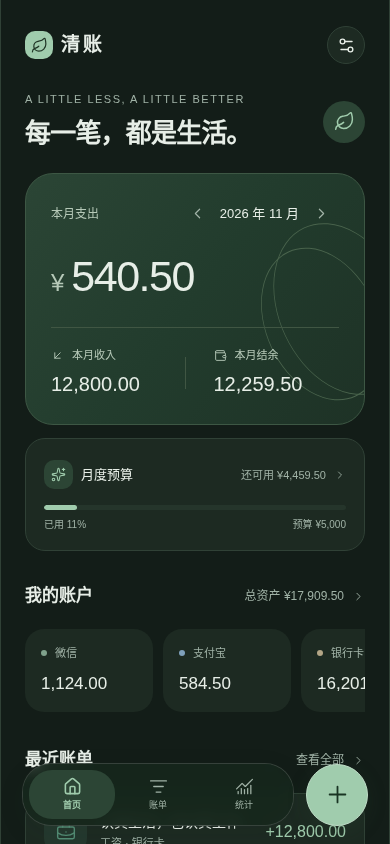
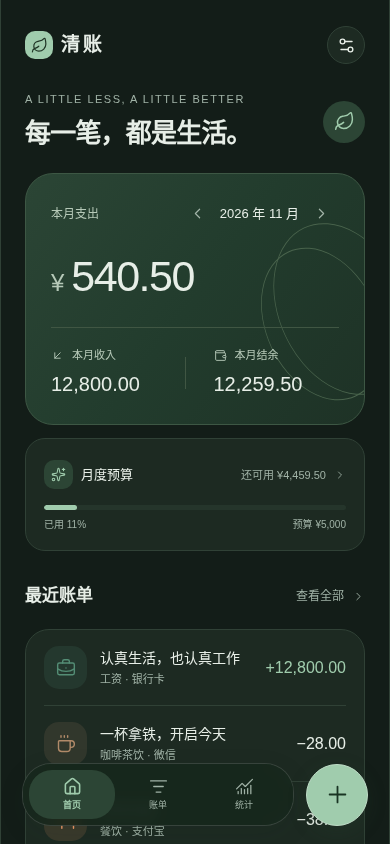
feat: make home account cards optional

diff --git a/src/screens/HomeScreen.tsx b/src/screens/HomeScreen.tsx
@@ -287,61 +287,68 @@ export function HomeScreen({
         )}
       </Card>
 
-      <SectionTitle
-        title="我的账户"
-        action={`总资产 ¥${money(totalAssets)}`}
-        onPress={onSettings}
-      />
-      <ScrollView
-        testID="account-carousel"
-        horizontal
-        nestedScrollEnabled
-        onTouchStart={lock}
-        onTouchEnd={unlock}
-        onTouchCancel={unlock}
-        showsHorizontalScrollIndicator={false}
-        contentContainerStyle={{ gap: 10, paddingBottom: 3 }}
-      >
-        {ledger.accounts.map((account, i) => (
-          <Button
-            key={account.id}
-            label={`管理${account.name}账户`}
-            variant="plain"
+      {ledger.showAccountCards && (
+        <>
+          <SectionTitle
+            title="我的账户"
+            action={`总资产 ¥${money(totalAssets)}`}
             onPress={onSettings}
-            style={{
-              backgroundColor: t.surface,
-              borderRadius: 19,
-              alignItems: 'flex-start',
-              padding: 16,
-              minWidth: 128,
-              gap: 9,
-            }}
+          />
+          <ScrollView
+            testID="account-carousel"
+            horizontal
+            nestedScrollEnabled
+            onTouchStart={lock}
+            onTouchEnd={unlock}
+            onTouchCancel={unlock}
+            showsHorizontalScrollIndicator={false}
+            contentContainerStyle={{ gap: 10, paddingBottom: 3 }}
           >
-            <View style={styles.row}>
-              <View
+            {ledger.accounts.map((account, i) => (
+              <Button
+                key={account.id}
+                label={`管理${account.name}账户`}
+                variant="plain"
+                onPress={onSettings}
                 style={{
-                  width: 6,
-                  height: 6,
-                  borderRadius: 3,
-                  backgroundColor: ['#80A28C', '#7FA0BB', '#B3A586', '#A697BB'][
-                    i % 4
-                  ],
+                  backgroundColor: t.surface,
+                  borderRadius: 19,
+                  alignItems: 'flex-start',
+                  padding: 16,
+                  minWidth: 128,
+                  gap: 9,
                 }}
-              />
-              <Txt size={11} color={t.muted}>
-                {account.name}
-              </Txt>
-            </View>
-            <Txt
-              size={17}
-              weight="500"
-              style={{ fontVariant: ['tabular-nums'] }}
-            >
-              {money(accountBalance(ledger, account.id))}
-            </Txt>
-          </Button>
-        ))}
-      </ScrollView>
+              >
+                <View style={styles.row}>
+                  <View
+                    style={{
+                      width: 6,
+                      height: 6,
+                      borderRadius: 3,
+                      backgroundColor: [
+                        '#80A28C',
+                        '#7FA0BB',
+                        '#B3A586',
+                        '#A697BB',
+                      ][i % 4],
+                    }}
+                  />
+                  <Txt size={11} color={t.muted}>
+                    {account.name}
+                  </Txt>
+                </View>
+                <Txt
+                  size={17}
+                  weight="500"
+                  style={{ fontVariant: ['tabular-nums'] }}
+                >
+                  {money(accountBalance(ledger, account.id))}
+                </Txt>
+              </Button>
+            ))}
+          </ScrollView>
+        </>
+      )}
 
       <SectionTitle title="最近账单" action="查看全部" onPress={onAll} />
       <Card style={{ paddingVertical: 0, paddingHorizontal: 18 }}>

diff --git a/e2e/account-display.spec.ts b/e2e/account-display.spec.ts
@@ -1,0 +1,82 @@
+import { test, expect } from '@playwright/test';
+
+test('account cards are optional, survive reload, and keep the ledger intact', async ({
+  page,
+}) => {
+  await page.goto('/');
+  await expect(page.getByText('生活的记录，从这里开始')).toBeVisible();
+  await expect(page.getByTestId('account-carousel')).toHaveCount(0);
+  await page.getByRole('button', { name: '打开设置' }).click();
+  const toggle = page.getByRole('switch', { name: '首页显示账户卡片' });
+  await expect(toggle).not.toBeChecked();
+  await toggle.check();
+  await expect(toggle).toBeChecked();
+  await expect(toggle).toBeEnabled();
+  // Loading sample records must preserve the user's display choice.
+  await page.getByRole('button', { name: '载入示例账本，看看效果' }).click();
+  await page.getByRole('button', { name: '确认载入示例' }).click();
+  await expect(toggle).toBeEnabled();
+  await page.getByRole('button', { name: '关闭', exact: true }).click();
+  await page.getByTestId('account-carousel').scrollIntoViewIfNeeded();
+  await expect(
+    page.getByRole('button', { name: '管理微信账户', exact: true }),
+  ).toBeVisible();
+  const ledger = await page.evaluate(() =>
+    JSON.parse(localStorage.getItem('qingzhang.ledger.v1')!),
+  );
+  expect(ledger.entries).toHaveLength(9);
+  expect(ledger.accounts).toHaveLength(4);
+  await page.reload();
+  await expect(page.getByTestId('account-carousel')).toHaveCount(1);
+  await page.getByRole('button', { name: '打开设置' }).click();
+  await expect(toggle).toBeChecked();
+  await toggle.uncheck();
+  await expect(toggle).not.toBeChecked();
+  await expect(toggle).toBeEnabled();
+  await page.getByRole('button', { name: '关闭', exact: true }).click();
+  await expect(page.getByTestId('account-carousel')).toHaveCount(0);
+  await expect(
+    page.getByTestId('page-home').getByText('我的账户', { exact: true }),
+  ).toHaveCount(0);
+  await page.reload();
+  await expect(page.getByTestId('month-expense')).toHaveText('540.50');
+  await expect(page.getByTestId('account-carousel')).toHaveCount(0);
+  const saved = await page.evaluate(() =>
+    JSON.parse(localStorage.getItem('qingzhang.ledger.v1')!),
+  );
+  expect(saved).toEqual({ ...ledger, showAccountCards: false });
+  // Continue recording while cards are hidden.
+  await page.getByRole('button', { name: '记一笔', exact: true }).click();
+  await page.getByRole('textbox', { name: '金额', exact: true }).fill('10');
+  await page.getByRole('button', { name: '记好了', exact: true }).click();
+  await expect(page.getByTestId('month-expense')).toHaveText('550.50');
+});
+
+test('a failed display-setting save leaves the switch and ledger unchanged', async ({
+  page,
+}) => {
+  await page.goto('/');
+  await page.getByRole('button', { name: '打开设置' }).click();
+  const toggle = page.getByRole('switch', { name: '首页显示账户卡片' });
+  await toggle.check();
+  await expect(toggle).toBeEnabled();
+  const saved = await page.evaluate(() =>
+    localStorage.getItem('qingzhang.ledger.v1'),
+  );
+  await page.evaluate(() => {
+    Storage.prototype.setItem = () => {
+      throw new Error('存储空间不足');
+    };
+  });
+  // Native switches are controlled: the persisted value must remain on.
+  await toggle.click();
+  await expect(page.getByTestId('settings-error')).toContainText(
+    '存储空间不足',
+  );
+  await expect(toggle).toBeChecked();
+  expect(
+    await page.evaluate(() => localStorage.getItem('qingzhang.ledger.v1')),
+  ).toBe(saved);
+  await page.getByRole('button', { name: '关闭', exact: true }).click();
+  await expect(page.getByTestId('account-carousel')).toHaveCount(1);
+});

diff --git a/src/components/SettingsSheet.tsx b/src/components/SettingsSheet.tsx
@@ -1,5 +1,5 @@
 import React, { useState } from 'react';
-import { TextInput, View } from 'react-native';
+import { Switch, TextInput, View } from 'react-native';
 import { useLedger } from '../state/LedgerProvider';
 import {
   type Account,
@@ -104,7 +104,12 @@ export function SettingsSheet({
         : confirmation === 'demo'
           ? demoLedger()
           : imported!;
-    await update(() => next);
+    await update((current) => ({
+      ...next,
+      ...(confirmation !== 'import'
+        ? { showAccountCards: current.showAccountCards }
+        : {}),
+    }));
     setBudget(next.monthlyBudget ? amountInput(next.monthlyBudget) : '');
     setConfirmation(null);
     setImported(null);
@@ -147,6 +152,41 @@ export function SettingsSheet({
           </Txt>
         </View>
       )}
+      <SectionTitle title="首页显示" />
+      <View
+        style={[
+          styles.row,
+          {
+            backgroundColor: t.surfaceAlt,
+            borderRadius: 18,
+            padding: 15,
+            gap: 16,
+          },
+        ]}
+      >
+        <View style={{ flex: 1, gap: 4 }}>
+          <Txt size={13} weight="500">
+            首页显示账户卡片
+          </Txt>
+          <Txt size={10} color={t.muted}>
+            关闭后隐藏账户与总资产，账单记录不受影响
+          </Txt>
+        </View>
+        <Switch
+          accessibilityLabel="首页显示账户卡片"
+          accessibilityHint="控制首页账户卡片与总资产的显示"
+          value={ledger.showAccountCards}
+          disabled={disabled}
+          trackColor={{ false: t.border, true: t.accent }}
+          thumbColor="#FFFFFF"
+          ios_backgroundColor={t.border}
+          onValueChange={(value) =>
+            void perform(() =>
+              update((current) => ({ ...current, showAccountCards: value })),
+            )
+          }
+        />
+      </View>
       <SectionTitle title="月度预算" />
       <View style={styles.row}>
         <TextInput

diff --git a/tests/ledger.test.ts b/tests/ledger.test.ts
@@ -43,6 +43,20 @@ describe('integer money', () => {
 describe('ledger integrity and balance', () => {
   it('starts with no sample entries', () =>
     expect(emptyLedger().entries).toEqual([]));
+  it('opens older ledgers with account cards hidden and preserves financial data', () => {
+    const current = demoLedger(new Date(2026, 10, 2));
+    const { showAccountCards, ...legacy } = current;
+    const loaded = validateLedger(JSON.parse(JSON.stringify(legacy)));
+    expect(loaded.showAccountCards).toBe(false);
+    expect(loaded.entries).toEqual(current.entries);
+    expect(loaded.accounts).toEqual(current.accounts);
+    expect(loaded.monthlyBudget).toBe(current.monthlyBudget);
+    expect(
+      validateLedger(
+        JSON.parse(JSON.stringify({ ...loaded, showAccountCards: true })),
+      ).showAccountCards,
+    ).toBe(true);
+  });
   it('recalculates balance and statistics after editing and deleting', () => {
     let ledger = upsertEntry(emptyLedger(), expense);
     expect(accountBalance(ledger, 'wechat')).toBe(-1234);
@@ -109,6 +123,9 @@ describe('ledger integrity and balance', () => {
     expect(() =>
       validateLedger({ ...emptyLedger(), monthlyBudget: -1 }),
     ).toThrow();
+    expect(() =>
+      validateLedger({ ...emptyLedger(), showAccountCards: 'false' }),
+    ).toThrow('账户显示设置无效');
     expect(() => validateLedger(null)).toThrow();
   });
   it('round trips a complete backup with exactly preserved values', () => {

diff --git a/src/domain/ledger.ts b/src/domain/ledger.ts
@@ -16,6 +16,7 @@ export type Ledger = {
   accounts: Account[];
   entries: Entry[];
   monthlyBudget: number;
+  showAccountCards: boolean;
 };
 export type Category = {
   id: string;
@@ -57,6 +58,7 @@ export function emptyLedger(): Ledger {
   return {
     version: 1,
     monthlyBudget: 0,
+    showAccountCards: false,
     accounts: [
       { id: 'wechat', name: '微信', openingBalance: 0 },
       { id: 'alipay', name: '支付宝', openingBalance: 0 },
@@ -151,6 +153,11 @@ export function validateLedger(input: unknown): Ledger {
     '账单数据无效或超过 50,000 条',
   );
   invariant(isAmount(data.monthlyBudget), '预算金额无效');
+  invariant(
+    data.showAccountCards === undefined ||
+      typeof data.showAccountCards === 'boolean',
+    '账户显示设置无效',
+  );
   const ids = new Set<string>();
   const accounts: Account[] = data.accounts.map((a: unknown) => {
     invariant(a && typeof a === 'object', '账户格式无效');
@@ -220,7 +227,13 @@ export function validateLedger(input: unknown): Ledger {
         : {}),
     };
   });
-  return { version: 1, accounts, entries, monthlyBudget: data.monthlyBudget };
+  return {
+    version: 1,
+    accounts,
+    entries,
+    monthlyBudget: data.monthlyBudget,
+    showAccountCards: data.showAccountCards ?? false,
+  };
 }
 
 export function upsertEntry(ledger: Ledger, entry: Entry): Ledger {

diff --git a/e2e/navigation-chart.spec.ts b/e2e/navigation-chart.spec.ts
@@ -79,6 +79,12 @@ test('vertical scrolling and horizontal account scrolling keep priority over pag
 }) => {
   await page.goto('/');
   await expectPage(page, 'home', '首页');
+  await page.getByRole('button', { name: '打开设置' }).click();
+  await page.getByRole('switch', { name: '首页显示账户卡片' }).check();
+  await expect(
+    page.getByRole('switch', { name: '首页显示账户卡片' }),
+  ).toBeEnabled();
+  await page.getByRole('button', { name: '关闭', exact: true }).click();
   await swipe(page, 200, 520, 0, -240);
   await expect
     .poll(() =>

diff --git a/README.md b/README.md
@@ -6,7 +6,7 @@
 
 ## 已实现
 
-- 首页：按月收支、结余、预算进度、账户余额、最近记录。
+- 首页：按月收支、结余、预算进度、最近记录。账户卡片与总资产默认隐藏，可在设置 → 首页显示 → 首页显示账户卡片中打开或关闭，选择会保存。
 - 切页：首页右滑进入账单，再右滑进入统计；左滑返回。底部导航跟随手势，各页保留滚动位置，账户横向滚动独立处理。
 - 记账：支出、收入、账户转账；分类、日期、备注；编辑、二次确认删除。
 - 账单：月份切换、类型筛选、备注 / 分类 / 账户搜索、按日分组。
@@ -59,7 +59,7 @@ EXPO_OFFLINE=1 npx expo export --platform ios --platform android --output-dir /t
 - 所有金额使用整数分计算；当前单笔上限 ¥9,999,999.99，仅支持人民币。
 - 账户余额 = 初始余额 + 全部账单变动；支持负余额。初始余额和账户转账都不计入收支。
 - 手机使用 SQLite 单行 JSON 快照，写入为单条原子 SQL。网页使用当前浏览器的 `localStorage`，适合原型审查，按单窗口使用。
-- schema 版本为 1。读取与写入均校验；不识别的版本拒绝覆盖，后续升级需显式迁移。
+- schema 版本为 1。读取与写入均校验；不识别的版本拒绝覆盖，后续升级需显式迁移。新增的 `showAccountCards` 为兼容旧数据的显示设置，旧账本缺省为关闭，账户和金额保持不变；JSON 备份包含此设置。
 - 数据保存在本机，尚未实现额外的应用层加密、云同步和自动备份。卸载 / 清除应用数据可能丢失账本，请定期导出 JSON。CSV 用于查看，不用于恢复。
 - JSON 备份包含全部财务数据，请妥善保管；恢复会替换当前账本，应用内需再次确认。
 

diff --git a/docs/product.md b/docs/product.md
@@ -27,6 +27,8 @@
 
 暂缓登录、云同步、家庭账本、OCR、自动导入、复杂预算和多币种，待核心体验通过审查后按需求扩展。
 
+首页账户卡片（微信、支付宝、银行卡、现金等）与总资产默认隐藏。设置中提供「首页显示账户卡片」开关，保存后立即生效并在重启后保留。关闭时不删除账户或账单，账户管理和记账继续可用。示例载入和清空账本保留显示选择；备份恢复使用备份内的选择，旧备份缺省关闭。
+
 每日支出使用折线与浅色面积填充，轻触查看日期与金额。按日累计整数分，排除收入和转账，缺少支出的日期补零；历史月份显示完整日历，当前月份显示到今天或已有的未来记录日期，避免将尚未发生的日期画成零支出。使用直线连接实际日值，避免曲线插值造成金额越界；单日和全零数据也可显示。
 
 ## 后续阶段

diff --git a/docs/validation.md b/docs/validation.md
@@ -17,6 +17,14 @@
 
 ## 安装包构建进展
 
+### v0.1.3 可选首页账户
+
+验证日期：2026-11-03。
+
+- 类型检查、35 项逻辑测试和网页生产构建通过。旧 schema 1 账本缺少显示设置时按关闭读取，账户、账单及预算保持不变；显示设置随 JSON 备份保存，并拒绝无效类型。
+- Chromium 13 项端到端测试全部通过。新增检查默认隐藏、开关双向切换、重启保留、载入示例保留显示选择、隐藏后继续记账，以及保存失败时设置与账本保持原状；原有切页、折线图、账户管理和备份流程也通过。
+- 更新简化后的深浅色首页截图，新增 `docs/previews/settings-account-toggle.png`，均来自实际网页运行。
+
 ### v0.1.2 手势与折线图
 
 验证日期：2026-11-03。
